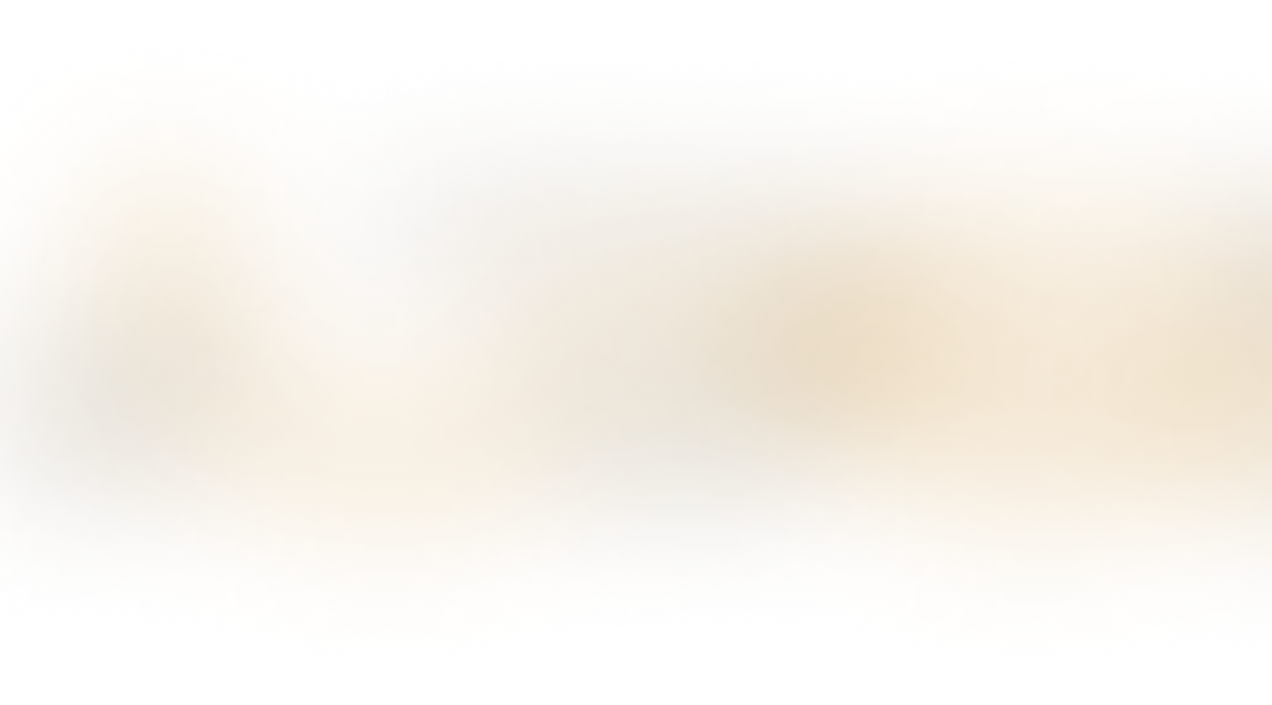
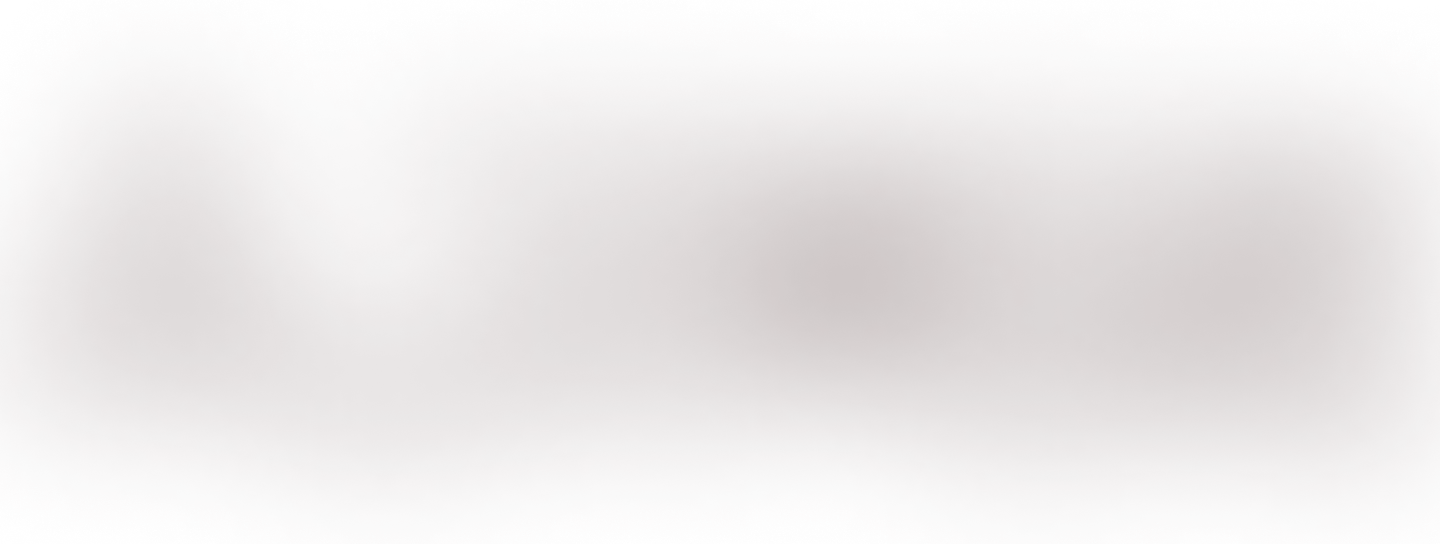
style: change theme colors

Changed region(s): [[0.7052, 0.3438, 0.9198, 0.75], [0.5212, 0.375, 0.6439, 0.5938], [0.9505, 0.375, 1.0, 0.625]]

diff --git a/src/pages/Home/styles.ts b/src/pages/Home/styles.ts
@@ -9,9 +9,8 @@ export const HomeContainer = styled.main`
 export const IntroContainer = styled.div`
   padding-top: 1rem;
   padding-bottom: 1rem;
-  background: url(${background}) center center no-repeat;
+  background-color: ${(props) => props.theme.base.background};
   background-size: 100% 100%;
-
   display: flex;
   align-items: center;
 `;
@@ -19,19 +18,23 @@ export const IntroContainer = styled.div`
 export const IntroContent = styled.div`
   max-width: 74rem;
   margin: 0 auto;
-  padding: 0 1rem;
+  padding: 1rem 2rem 0 2rem;
 
   display: grid;
   grid-template-columns: 1fr;
 
   @media (min-width: 55em) {
     grid-template-columns: 1fr 1fr;
-    padding: 0 2rem;
+    padding: 2rem 2rem 0 2rem;
   }
 `;
 
 export const IntroLeftContent = styled.div`
-  padding-bottom: 2rem;
+  padding-bottom: 4rem;
+
+  @media (min-width: 55em) {
+    padding-bottom: 2rem;
+  }
 `;
 
 export const IntroTextContainer = styled.div`
@@ -54,7 +57,11 @@ export const IntroSubtitle = styled.p`
   color: ${(props) => props.theme.base.subtitle};
   line-height: 130%;
 
-  padding-bottom: 4rem;
+  padding-bottom: 2rem;
+
+  @media (min-width: 55em) {
+    padding-bottom: 4rem;
+  }
 `;
 
 export const IntroItemContainer = styled.div`

diff --git a/src/styles/themes/default.ts b/src/styles/themes/default.ts
@@ -1,20 +1,20 @@
 export const defaultTheme = {
   brand: {
-    yellow: "#DBAC2C",
-    yellowDark: "#C47F17",
+    yellow: "#833205",
+    yellowDark: "#6b3b26",
     yellowLight: "#efe3d0",
   },
   base: {
-    white: "#FFFFFF",
-    background: "#140E02",
-    card: "#332815",
-    input: "#e6d5b9",
-    button: "#573a0b",
-    hover: "#edd9b920",
+    background: "#100909",
+    card: "#331D1D",
+    button: "#6b3b26",
+    input: "#e0d3bc",
+    hover: "#edd9b91a",
     label: "#8D8686",
-    text: "#f7f1e8",
+    title: "#efe3d0",
     subtitle: "#efe3d0",
-    title: "#f7f1e8",
+    text: "#f2eeeb",
+    white: "#FFFFFF",
     success: "#52BB50",
     error: "#FF6363",
     disabled: "#8D8686",

diff --git a/src/components/QuantitySelect/styles.ts b/src/components/QuantitySelect/styles.ts
@@ -16,20 +16,18 @@ export const SelectContainer = styled.div`
 export const IconContainer = styled.button`
   transition: all 0.1s ease-in-out;
   border: none;
-  border-radius: 1000px;
+  height: 100%;
+  border-radius: 2px;
   background: none;
 
   svg {
-    color: ${(props) => props.theme.brand.yellow};
+    color: ${(props) => props.theme.brand.yellowLight};
   }
 
   @media (hover: hover) and (pointer: fine) {
     &:hover {
       transition: color 0.1s ease-in-out;
       background: ${(props) => props.theme.base.hover};
-      svg {
-        color: ${(props) => props.theme.brand.yellowDark};
-      }
     }
   }
 `;

diff --git a/src/components/Header/styles.ts b/src/components/Header/styles.ts
@@ -15,16 +15,12 @@ export const HeaderContainer = styled.header<HeaderContainerProps>`
   max-width: 74rem;
   margin: 0 auto;
   padding-block: ${(props) => (props.navPadding ? "1rem" : "2rem")};
-  padding-inline: 1rem;
+  padding-inline: 2rem;
   display: flex;
   justify-content: space-between;
   align-items: center;
 
   transition: all 0.2s ease-out;
-
-  @media (min-width: 55em) {
-    padding-inline: 2rem;
-  }
 `;
 
 export const LogoExtendedContainer = styled.div`

diff --git a/src/components/CustomButton/styles.ts b/src/components/CustomButton/styles.ts
@@ -45,10 +45,7 @@ export const Container = styled.button<ContainerProps>`
     props.outlined && !props.disabled
       ? `
       &:focus {
-        background: ${!props.disabled ? props.theme.base.button : "none"};
-        box-shadow: ${
-          !props.disabled ? `0 0 0 2px ${props.theme.brand.yellow}` : "none"
-        };
+        background: ${!props.disabled ? props.theme.brand.yellow : "none"};
       }
     `
       : ""}

diff --git a/src/pages/Checkout/components/AddressForm/index.tsx b/src/pages/Checkout/components/AddressForm/index.tsx
@@ -172,7 +172,7 @@ export const AddressForm = ({
         <S.AddressFormContainer>
           <S.ButtonContainer>
             <CustomButton
-              icon={<MapPinLine size={16} color={theme.brand.yellow} />}
+              icon={<MapPinLine size={16} color={theme.brand.yellowLight} />}
               title={"Usar localização Atual"}
               onClick={() => {
                 getGeoLocation();

diff --git a/src/pages/Checkout/components/ProductCheckoutCard/index.tsx b/src/pages/Checkout/components/ProductCheckoutCard/index.tsx
@@ -69,7 +69,7 @@ const ProductCheckoutCard = ({
               onSubtractQuantity={handleSubtractQuantity}
             />
             <CustomButton
-              icon={<Trash size={16} color={theme.brand.yellow} />}
+              icon={<Trash size={16} color={theme.base.error} />}
               title={"Remover"}
               size={"small"}
               onClick={handleRemoveFromCart}

diff --git a/src/pages/Success/styles.ts b/src/pages/Success/styles.ts
@@ -35,7 +35,7 @@ export const TextContainer = styled.div``;
 
 export const OrderTitle = styled.h1`
   font-family: ${(props) => props.theme.font.display};
-  color: ${(props) => props.theme.brand.yellowDark};
+  color: ${(props) => props.theme.base.subtitle};
   font-size: ${(props) => props.theme.fontSize[32]};
   font-weight: 800;
   line-height: 130%;

diff --git a/src/styles/global.ts b/src/styles/global.ts
@@ -54,6 +54,12 @@ export const GlobalStyle = createGlobalStyle`
     font-size: ${(props) => props.theme.fontSize[16]};
   }
 
+  h1,
+  h2,
+  h3 {
+    text-wrap: balance;
+  } 
+
   img,
   picture,
   svg {
